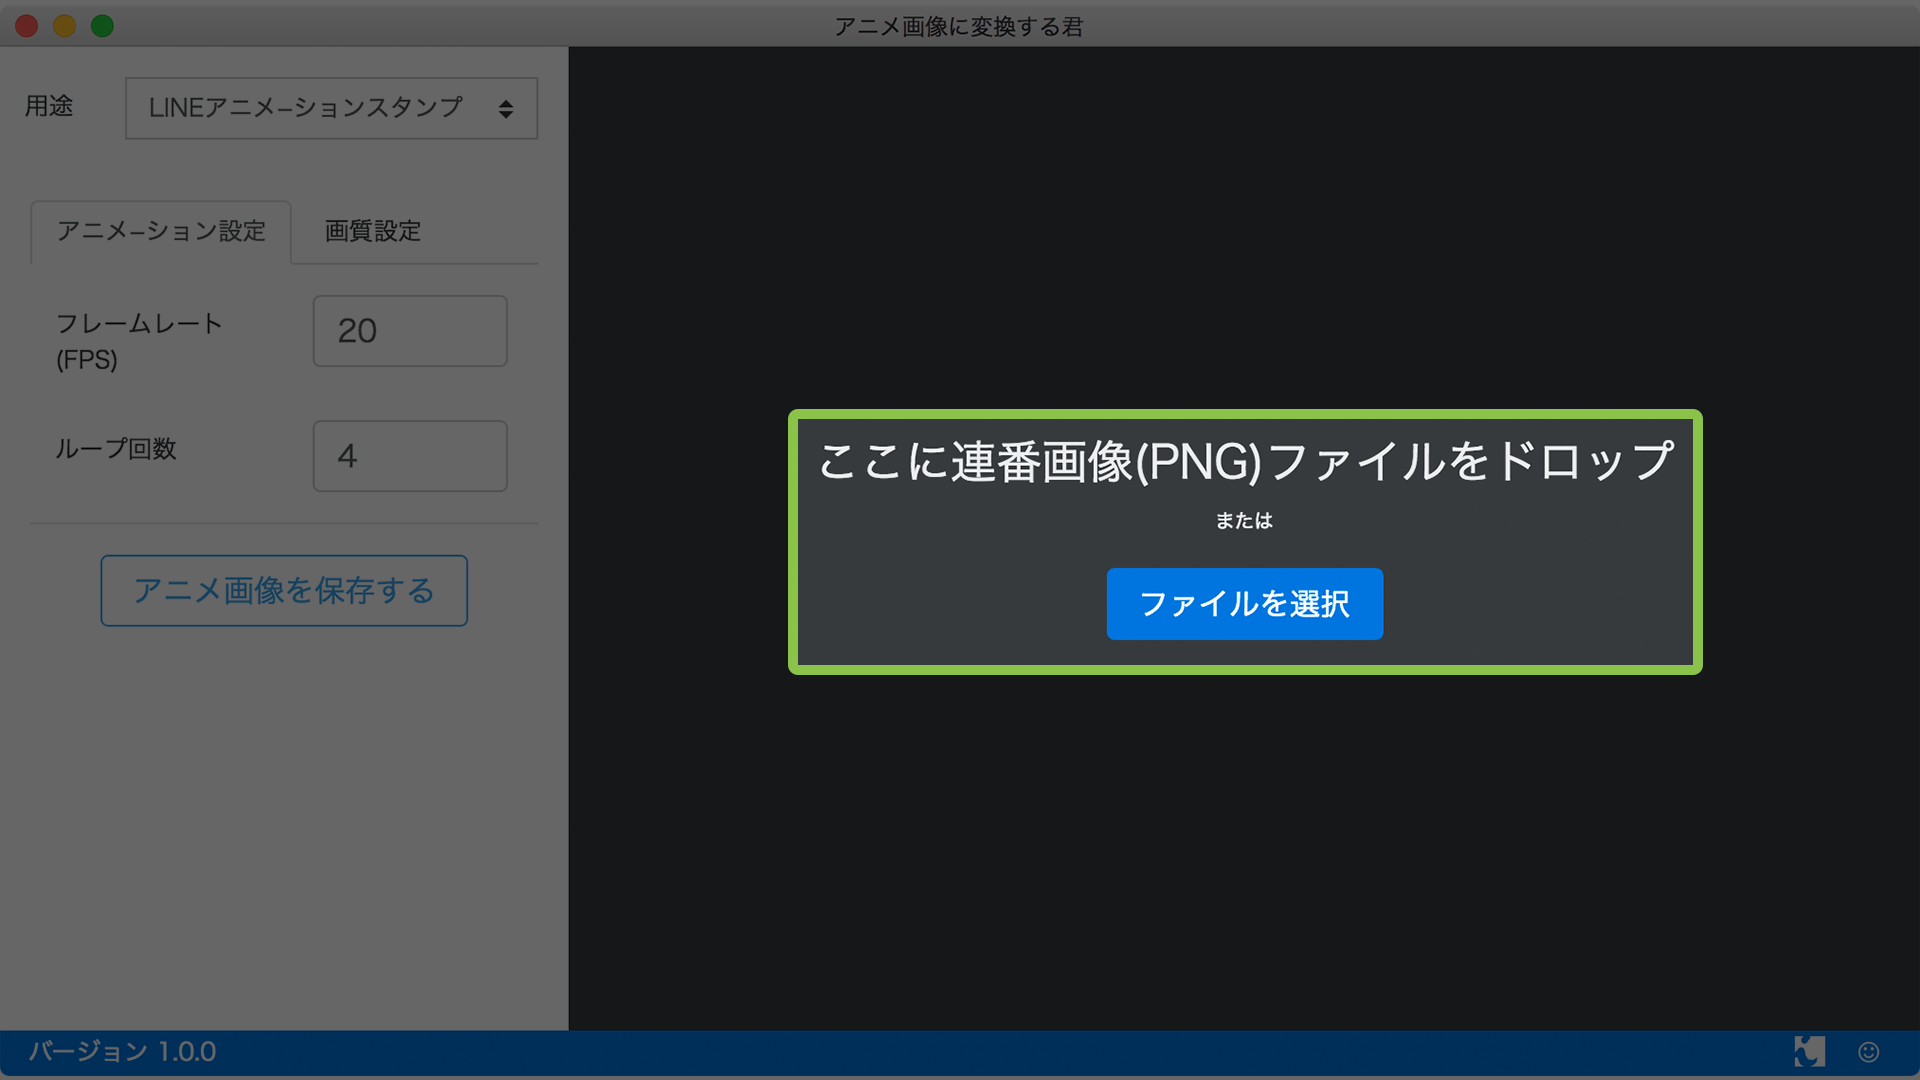
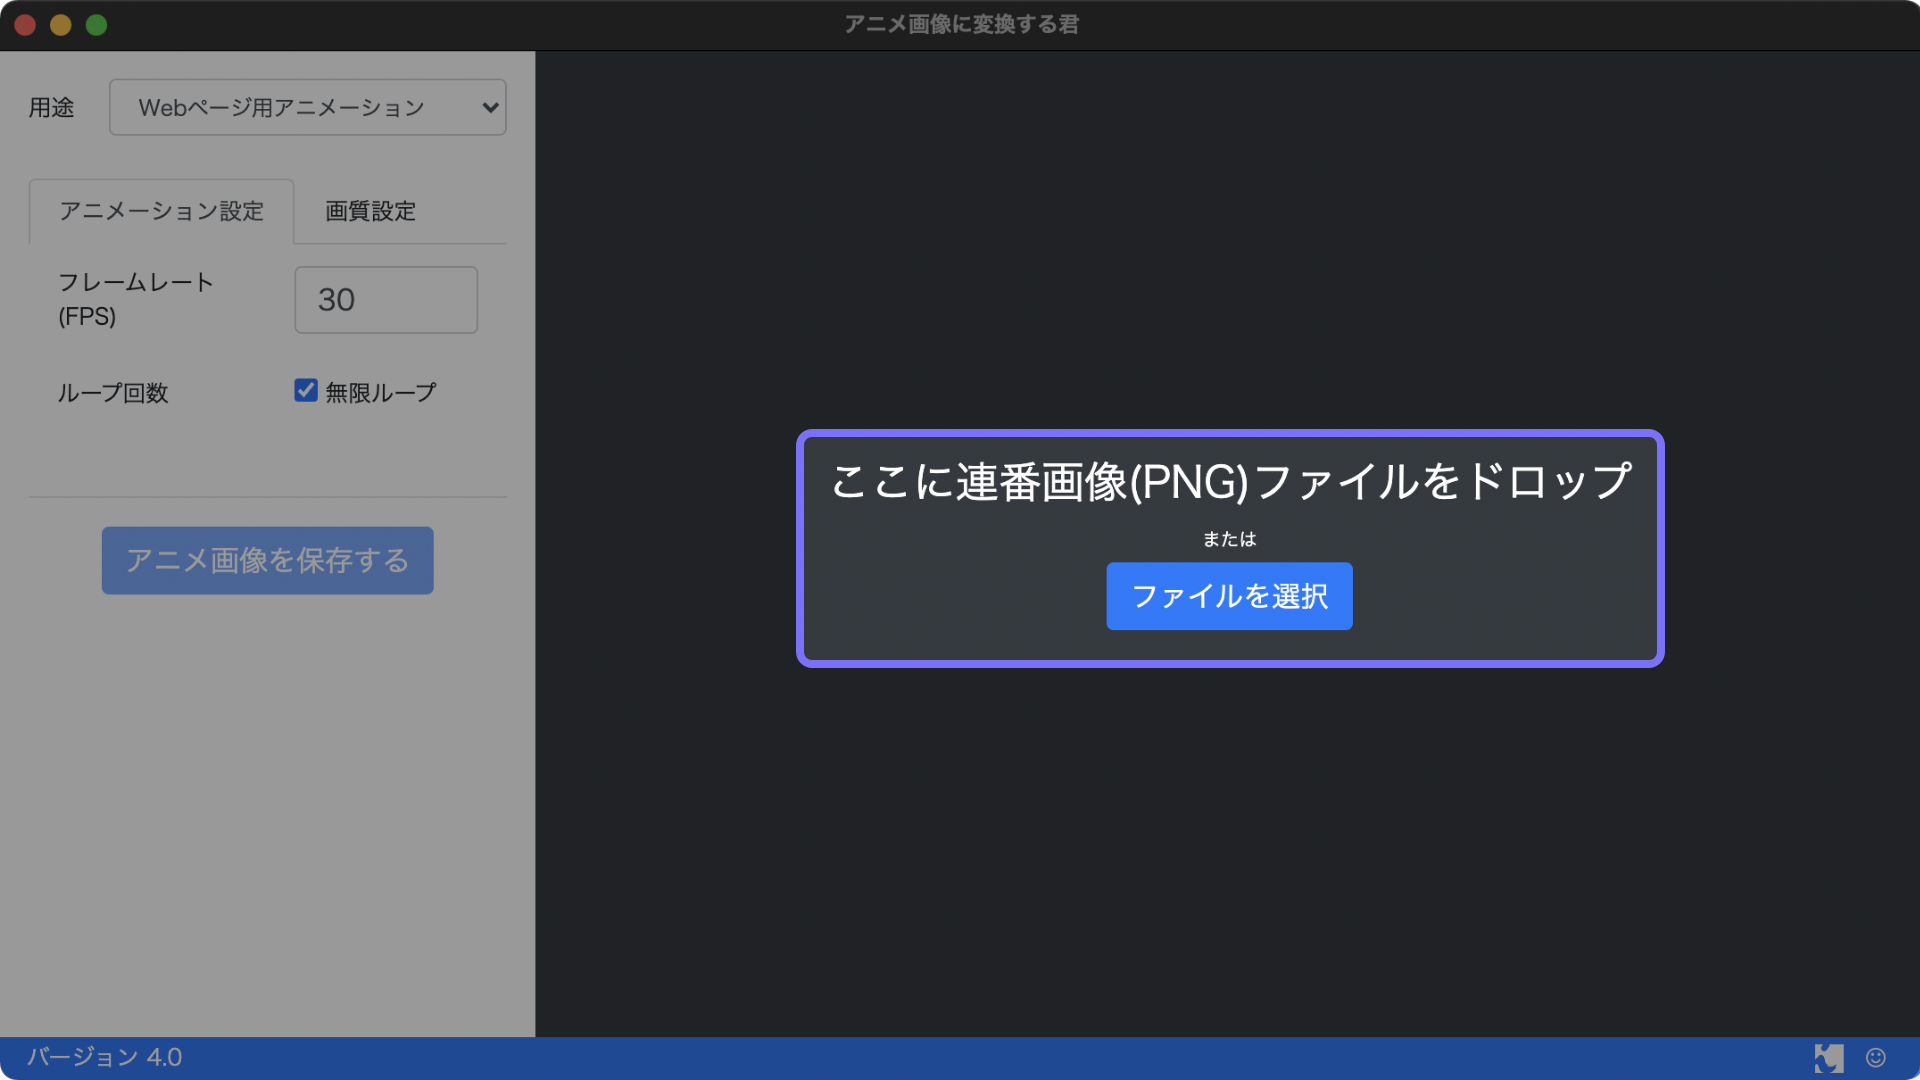
ヘルプドキュメントの更新（v4.0）

diff --git a/help/ReadMe.md b/help/ReadMe.md
@@ -1,6 +1,6 @@
 # アニメ画像に変換する君
 
-このソフトは連番画像をLINEアニメーションスタンプや、Web用アニメーション画像に変換するソフトウェアです。Windowsとmac OSに対応し、無償で提供しています。
+このソフトは連番画像をLINEアニメーションスタンプや、ウェブ用アニメーション画像に変換するソフトウェアです。Windowsとmac OSに対応し、無償でリリースしています。
 
 
 ![](imgs/help-thumb.png)
@@ -15,8 +15,7 @@
   - ループ設定
   - **APNGの容量を小さくするオプション**(少しだけ画質が劣化しますが、容量はかなり小さくなります)
 - Webページ用アニメ画像の作成
-  - Firefox, Safari用のAPNGファイル作成
-  - Chrome用のWebPファイル作成
+  - APNGファイルとWebPファイル作成
   - それらの画像を表示するためのHTMLファイルの作成
 
 ## インストール方法
@@ -24,8 +23,8 @@
 次のURLからソフトウェアをダウンロードください。
 
 - [Windows 7〜8.1はこちらから](https://github.com/ics-creative/160609_animation-image-generator/blob/master/help/Help_Windows.md)
-- [Windows 10以降はこちらから(Windows Store)](https://www.microsoft.com/ja-jp/p/%E3%82%A2%E3%83%8B%E3%83%A1%E7%94%BB%E5%83%8F%E3%81%AB%E5%A4%89%E6%8F%9B%E3%81%99%E3%82%8B%E5%90%9B/9n36kvc52st9?activetab)
-- [macOSはこちらから(Mac App Store)](https://itunes.apple.com/jp/app/anime-hua-xiangni-bian-huansuru/id1127676902?mt=12)
+- [Windows 10以降はこちらから(Windows Store)](https://apps.microsoft.com/store/detail/%E3%82%A2%E3%83%8B%E3%83%A1%E7%94%BB%E5%83%8F%E3%81%AB%E5%A4%89%E6%8F%9B%E3%81%99%E3%82%8B%E5%90%9B/9N36KVC52ST9?hl=ja-jp&gl=JP)
+- [macOSはこちらから(Mac App Store)](https://apps.apple.com/jp/app/anime-hua-xiangni-bian-huansuru/id1127676902?mt=12)
 
 ## 使い方
 
@@ -39,12 +38,12 @@ PNGの連番画像(画像シーケンス)を用意ください。PNGの連番画
 
 ### ②連番画像の読み込み
 
-「アニメ画像に変換する君」を起動し、[ファイルを選択]ボタンを選択します。
+「アニメ画像に変換する君」を起動し、［ファイルを選択］ボタンを選択します。
 
 ![](imgs/help-step-file-select.png)
 
 
-ファイルダイアログでは、ファイルを[Shift]キーを押しながら複数枚選択し、[開く]をクリックします。
+ファイルダイアログでは、ファイルを<kbd>Shift</kbd>キーを押しながら複数枚選択し、[開く]をクリックします。
 
 
 ![](imgs/help-step-file-select-finder.png)
@@ -55,40 +54,55 @@ PNGの連番画像(画像シーケンス)を用意ください。PNGの連番画
 
 ### ③用途を選択
 
-「アニメ画像に変換する君」の[用途]を「LINEアニメーションスタンプ」を選択します。
+「アニメ画像に変換する君」の［用途］を「LINEアニメーションスタンプ」を選択します。
 
 ![](imgs/help-select-preset.png)
 
-[フレームレート]と[ループ回数]を設定しましょう。
+［フレームレート］と［ループ回数］を設定しましょう。
 
 ![](imgs/help-set-anim.png)
 
 ### ④アニメ画像を保存
 
-[アニメ画像を保存する]ボタンをクリックして、ファイルの保存先を選択します。
+［アニメ画像を保存する］ボタンをクリックして、ファイルの保存先を選択します。
 
 ![](imgs/help-save.png)
 
 ### ⑤PNGファイルの確認
 
-LINEアニメーションスタンプのAPNGファイルは拡張子は`.png`です。ブラウザFirefoxで出力したAPNGファイルを開き、アニメーションを確認しましょう。
+LINEアニメーションスタンプのAPNGファイルは拡張子は`.png`です。ブラウザFirefox等で出力したAPNGファイルを開き、アニメーションを確認しましょう。
 
 ![](imgs/help-firefox.png)
 
 ### ⑥LINEアニメーションスタンプのルールのチェック
 
-LINEスタンプアニメーションの[ガイドライン](https://creator.line.me/ja/guideline/animationsticker/detail/)がには難しいルールが掲載されてます。このソフトウェアではルールに適合しているかチェックする機能があります。ファイルの保存後に、ルールに適合してない点があったらアラートで教えてくれます。
+LINEアニメーションスタンプの[ガイドライン](https://creator.line.me/ja/guideline/animationsticker/detail/)にはさまざまなルールが掲載されてます。このソフトウェアではルールに適合しているかチェックする機能があります。ルールに適合してない点があったら、画面上の「！」マークの箇所や、アラートダイアログで教えてくれます。
+
+![](imgs/help-validate-alert.png)
 
 ![](imgs/help-validate.png)
 
-全部のルールをチェックしているわけではないのですが、少し安心してファイル保存できるようになると思います。
+
+
+
 
 #### チェックしているルール
 
 - フレームサイズ
-- コマ数
+- 総フレーム数
+- ループ回数
 - 再生時間
 - ファイル容量
+
+画面左側の［チェックルール］を選択することで、さまざまな種類のアニメーションスタンプの形式のチェックを行えます。
+
+- アニメーションスタンプ画像
+- アニメーションスタンプメイン画像
+- ポップアップスタンプ画像
+- エフェクトスタンプ画像
+- アニメーション絵文字
+
+![](imgs/help-select-check-rule.png)
 
 ※ LINEスタンプアニメーションのガイドラインと「ルールが違うんじゃない？」という箇所があれば、指摘＆要望くださいませ。
 
@@ -100,7 +114,7 @@ LINEスタンプアニメーションの[ガイドライン](https://creator.lin
 
 ## 開発者について
 
-[株式会社ICS](https://ics.media/)というWeb制作プロダクションが開発してます。
+[株式会社ICS](https://ics.media/)というウェブ制作会社が開発してます。
 
 
 ### 不具合報告や機能要望について
@@ -118,4 +132,4 @@ http://goo.gl/forms/5DUI1UnTUXR6AmCw2
 ### 使用条件＆免責事項
 
 - 本ソフトウェアをダウンロードし、インストールすることによって生じる問題について、その責を負えませんのでご了承ください。
-- 本ソフトウェアの全てまたは一部を複製・再配布することを禁じます。
+- 本ソフトウェアのすべて、または一部を複製・再配布することを禁じます。
